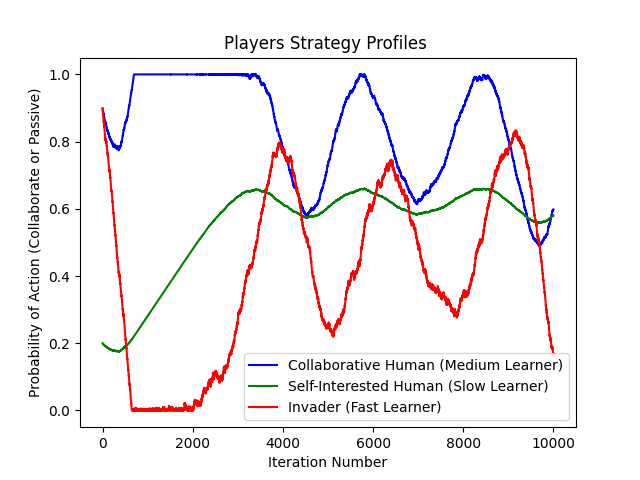
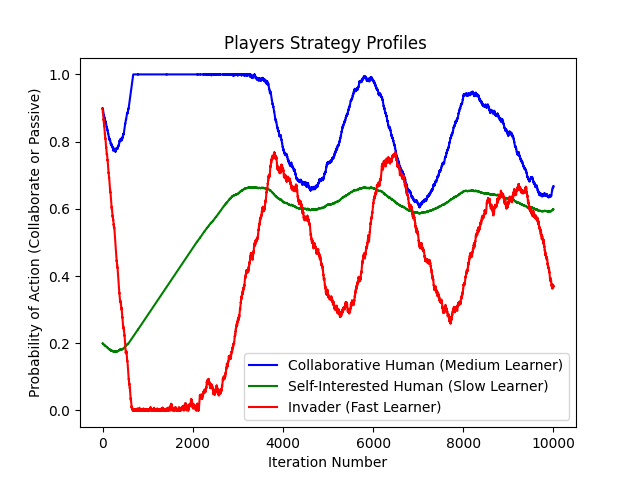
Update all picture

diff --git a/Iterative-Game.py b/Iterative-Game.py
@@ -49,6 +49,31 @@ CASES = [{"name": "Same_Learning_Rates",
           "lr":[.0002, .001, .002],
           "lr_name":["Slow", "Medium", "Fast"]
           }, 
+         {"name": "H1-Medium_H2-Medium_Inv-Slow",
+          "lr":[.001, .001, .0002],
+          "lr_name":["Medium", "Medium", "Slow"]
+          }, 
+         {"name": "H1-Medium_H2-Medium_Inv-Fast",
+          "lr":[.001, .001, .002],
+          "lr_name":["Medium", "Medium", "Fast"]
+          }, 
+         {"name": "H1-Slow_H2-Slow_Inv-Medium",
+          "lr":[.0002, .0002, .001],
+          "lr_name":["Slow", "Slow", "Medium"]
+          }, 
+         {"name": "H1-Slow_H2-Slow_Inv-Fast",
+          "lr":[.0002, .0002, .002],
+          "lr_name":["Slow", "Slow", "Fast"]
+          }, 
+         {"name": "H1-Fast_H2-Fast_Inv-Medium",
+          "lr":[.002, .002, .001],
+          "lr_name":["Fast", "Fast", "Medium"]
+          }, 
+         {"name": "H1-Fast_H2-Fast_Inv-Slow",
+          "lr":[.002, .002, .0002],
+          "lr_name":["Fast", "Fast", "Slow"]
+          }, 
+
 ] 
 
 for iCase in CASES:
